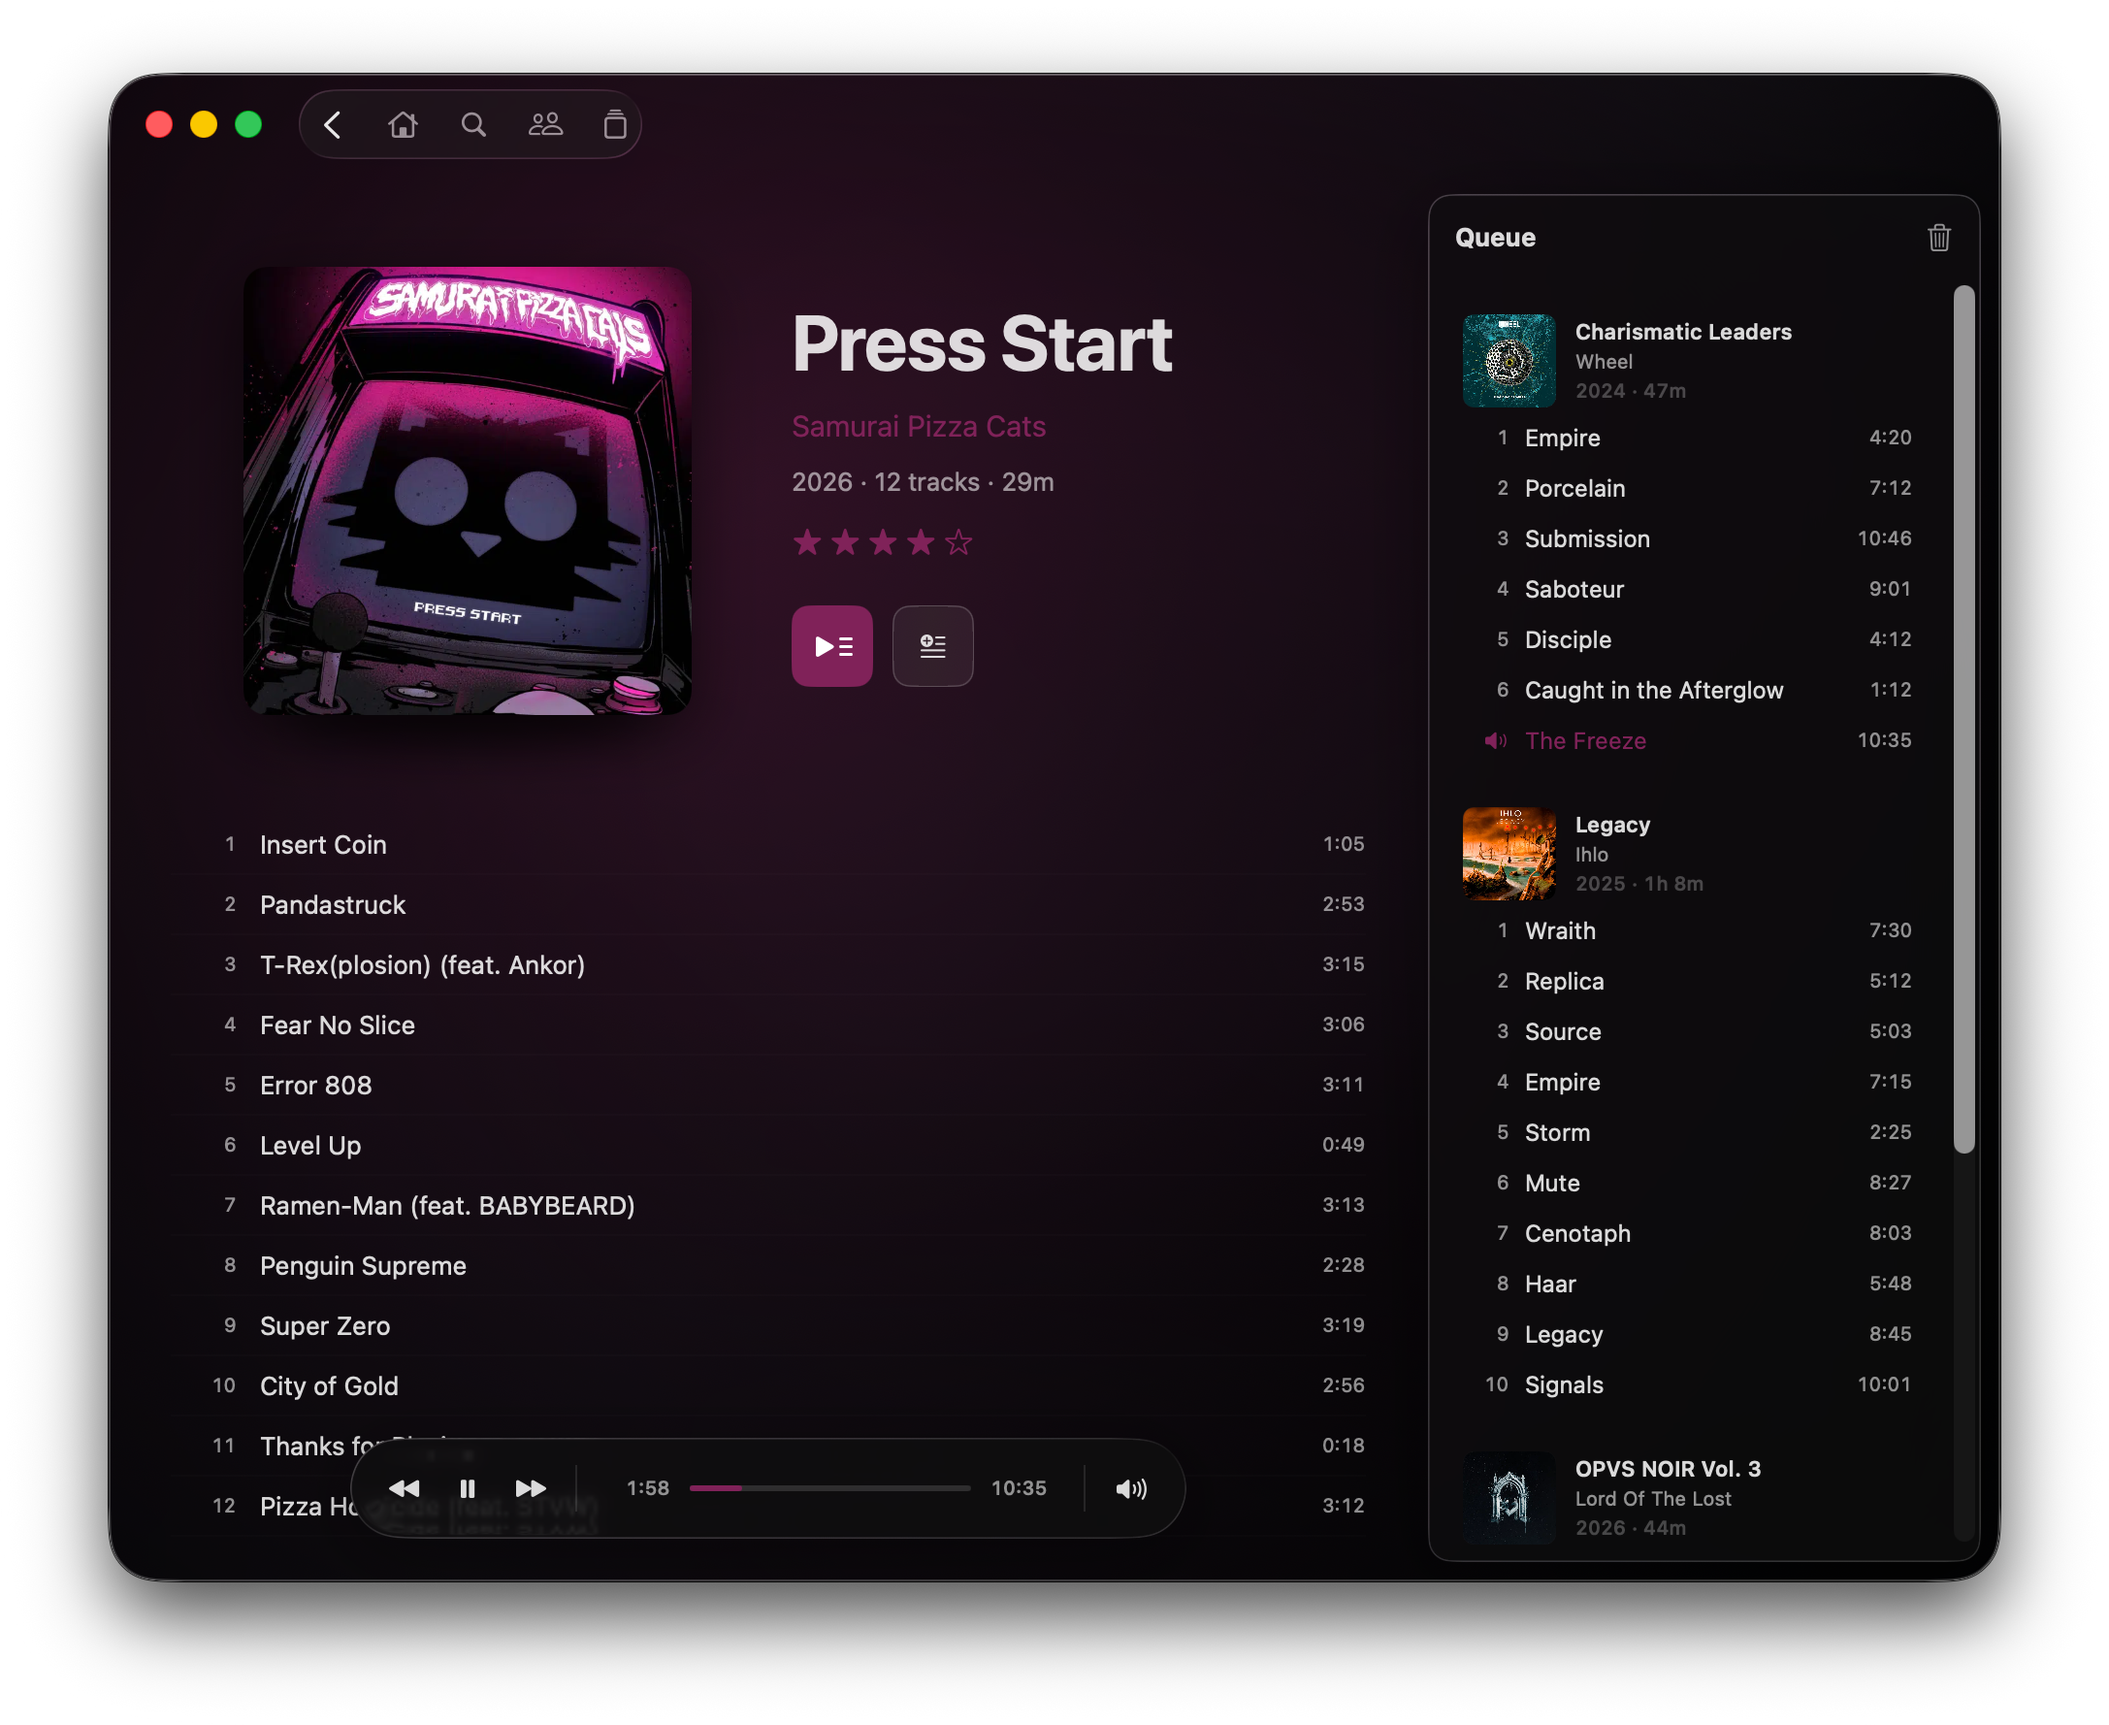
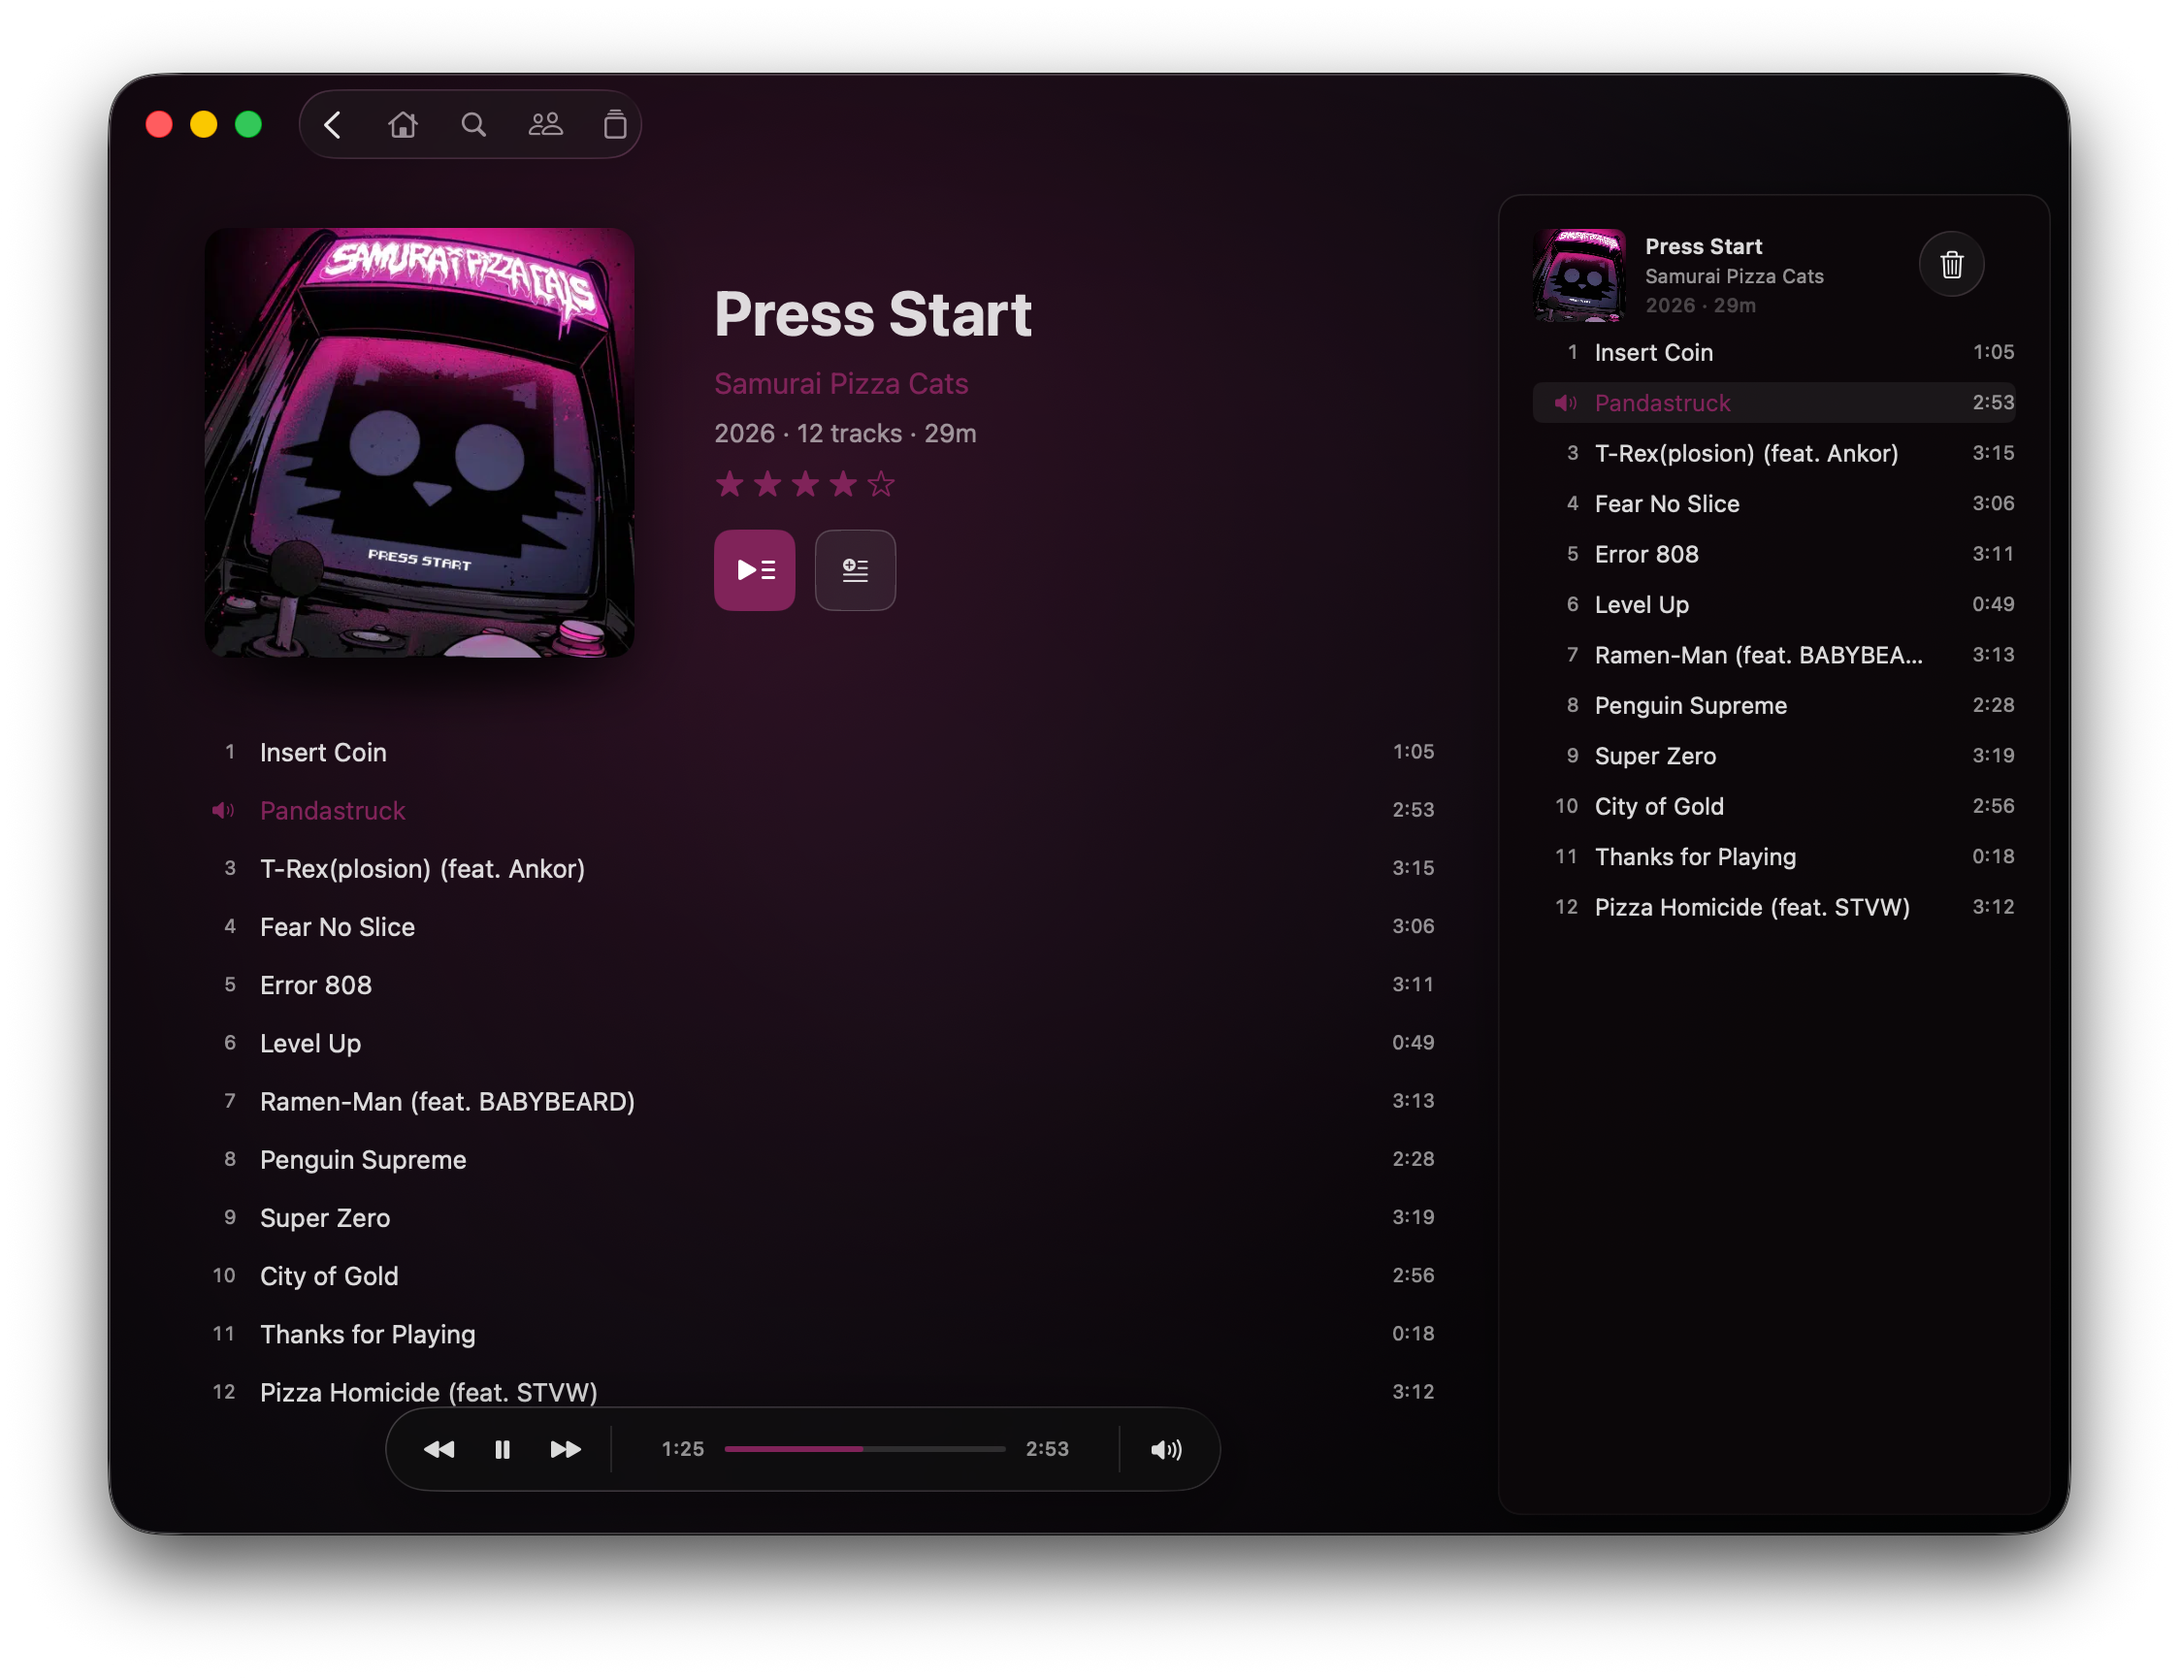
Refresh README and screenshots

diff --git a/README.md b/README.md
@@ -1,8 +1,7 @@
 # Coda — Album-First Navidrome Client for macOS
 
-Coda is a focused, album-first macOS client for Navidrome and compatible OpenSubsonic servers. It
-is built for people who want the artwork and the music to lead, while the player itself stays fast,
-predictable, and out of the way.
+Coda is a focused native macOS client for Navidrome and compatible OpenSubsonic servers. It keeps
+artwork, albums, and the listening queue at the center of the experience.
 
 Coda is an independent community project and is not affiliated with or endorsed by Navidrome.
 
@@ -11,169 +10,66 @@ Coda is an independent community project and is not affiliated with or endorsed 
   <img src="screenshots/Album.png" width="49%" alt="Coda album view">
 </p>
 
-## Why Coda exists
-
-Coda is for listeners who still think in artists, albums, discs, and track lists. It turns a
-Navidrome library into a calm, native Mac experience where the artwork gives every album its own
-identity.
-
-- **Artwork is the design.** The current album supplies the color and atmosphere; Coda adds as
-  little visual noise as possible.
-- **Albums come first.** Discographies, multidisc releases, ratings, and a real editable queue are
-  treated as essential parts of listening rather than secondary library details.
-- **Navigation stays predictable.** Home, Search, Artists, and Albums are always familiar starting
-  points, so moving through the library remains effortless.
-- **Your server stays current.** Coda reads the library directly from Navidrome, so new albums,
-  changed playlists, and ratings are available without waiting for a library synchronization.
-- **Music stays in its original format.** Coda is designed for a fast connection to the server and
-  plays the files already chosen for the library.
-
-The result is a focused music player that feels at home on macOS and makes a personal library feel
-personal.
+<p align="center">
+  <img src="screenshots/nowplaying.png" width="49%" alt="Coda Now Playing screen">
+  <img src="screenshots/search.png" width="49%" alt="Coda search results">
+</p>
 
 ## Highlights
 
-- Artwork-derived backgrounds and accent colors with native Liquid Glass controls.
-- A compact home screen for artists, recently added and recently played albums, recent releases,
-  playlists, and queue continuation.
-- Chronological artist discographies, sortable album collections, and ordered Artist → Album →
-  Song search results.
-- Album and playlist views with double-click playback, drag-and-drop queueing, and interactive
-  five-star album ratings.
-- Multidisc albums with per-disc headings, runtimes, optional disc subtitles, independent dragging,
-  and queue removal.
-- A directly editable queue: append, insert, select, delete, reorder, and jump to the playing track.
-- Native media keys, macOS Now Playing integration, seeking, volume, and mouse back-button support.
-- Gapless album playback powered by libmpv.
-- Persistent artwork caching for fast launches and immediately responsive browsing.
-- Secure login stored in the macOS Keychain.
-- Queue handoff between Coda and other compatible Navidrome clients.
-- Reliable Navidrome scrobbling while listening.
-- A native status window for connection and build details.
-
-## Made for complete albums
-
-Coda streams the original files from the server and uses libmpv to keep connected tracks flowing
-without an artificial pause. FLAC, Opus, MP3, AAC, and other common formats can live together in the
-same library.
-
-The queue is part of the listening experience rather than a temporary list hidden behind a button.
-Albums, individual tracks, and even discs can be dragged into position, rearranged, or removed
-directly.
-
-## Pick up where you left off
-
-Coda participates in Navidrome's shared saved queue. Reopen Coda and the queue from this Mac is ready
-to restore; listen somewhere else and Coda can offer that client's queue as a clear **Continue**
-card on Home.
-
-The handoff preserves track order, the current track, and the approximate playback position. A
-paused Coda monitors the server without overwriting another player's newer queue, so switching
-between clients remains intentional rather than becoming a tug-of-war.
+- Artwork-led native macOS design with album-derived colors and Liquid Glass controls.
+- Album-first browsing with chronological discographies, multidisc releases, ratings, and search.
+- A visible, editable queue with drag-and-drop insertion, reordering, removal, and queue handoff.
+- Original-format playback with gapless transitions, seeking, scrobbling, and saved queue restoration.
+- Native media keys, macOS Now Playing integration, and a dedicated immersive Now Playing view.
 
 ## Requirements
 
-- macOS 26 or newer.
-- An Apple silicon Mac.
+- macOS 26 or newer on an Apple silicon Mac.
 - A Navidrome server or compatible OpenSubsonic implementation.
-- Network access to that server.
+- Network access to that server; HTTPS is recommended outside a trusted network.
 
-Coda currently supports one server and one account at a time. HTTPS is strongly recommended whenever
-the server is reachable over an untrusted network.
+## Install
 
-## Installing a GitHub release
-
-Download the macOS arm64 ZIP from the GitHub Release, extract `Coda.app`, and move it to
+Download the macOS arm64 ZIP from the latest GitHub release, extract `Coda.app`, and move it to
 `/Applications`.
 
-The current release keeps Coda's stable development signing identity, but it is not Apple Developer
-ID signed or notarized. macOS may therefore quarantine a build downloaded from GitHub. After
-reviewing the source and moving the app into place, remove that quarantine attribute with:
+The app is not currently notarized. After reviewing the source, you can remove macOS quarantine
+from a downloaded build with:
 
 ```sh
 xattr -dr com.apple.quarantine /Applications/Coda.app
 ```
 
-This permits the downloaded build to launch; it does not make the development certificate an
-Apple-trusted Developer ID. A future fully notarized distribution would require membership in the
-Apple Developer Program.
+## Build from source
 
-## Building
-
-Prerequisites:
-
-- Xcode Command Line Tools 26 or newer, with Swift 6.2 or newer.
-- [Homebrew](https://brew.sh).
-- Meson, Ninja, pkg-config, Graphite2, FreeType, FriBidi, and HarfBuzz:
+Install Xcode Command Line Tools 26 or newer, Swift 6.2 or newer, and the build dependencies:
 
 ```sh
-brew install meson ninja pkg-config graphite2 freetype fribidi harfbuzz
+brew install meson ninja pkg-config libunibreak graphite2 freetype fribidi harfbuzz libpng
 ```
 
-Clone the repository, build the pinned LGPL playback dependencies, and create a release app:
+Then build and open the release app:
 
 ```sh
-./scripts/build-libmpv.sh
 ./scripts/build-app.sh release
 open .build/Coda.app
 ```
 
-The first command downloads checksum-pinned source archives and builds Coda's playback stack under
-`.build/libmpv`. The app bundles its required dynamic libraries and has no runtime dependency on
-Homebrew or a separately installed `mpv` executable.
-
-`build-app.sh` uses a code-signing identity named `Coda Local Development` when one is installed.
-Set `CODA_SIGNING_IDENTITY` to use another identity. If neither is available, the script creates an
-ad-hoc signed local build. Ad-hoc and locally signed builds are suitable for development, but are not
-Developer ID signed or notarized for public distribution.
-
-Run deterministic authentication, metadata, queue, playback-policy, and scrobbling checks with:
+Run the automated tests with:
 
 ```sh
 swift test
 ```
 
-Test real decoding and the preloaded transition between two server tracks with:
-
-```sh
-SDKROOT="$(xcrun --sdk macosx --show-sdk-path)" \
-  DYLD_LIBRARY_PATH=.build/libmpv/prefix/lib \
-  swift run CodaPlaybackSpike --mpv-stream-test
-```
-
-The live stream test uses the login saved by Coda. Isolated test credentials can instead be supplied
-through `CODA_SERVER_URL`, `CODA_USERNAME`, and `CODA_PASSWORD`.
-
 ## Privacy
 
-Coda contains no analytics, advertising, or tracking SDK. Credentials are stored in the user's
-macOS login Keychain and are not compiled into the app. Server communication goes only to the server
+Coda contains no analytics, advertising, or tracking SDK. It communicates only with the server
 configured by the user.
-
-## Deliberately out of scope
-
-- Podcasts and internet radio.
-- Generated mixes and recommendation algorithms.
-- Permanent offline downloads and offline-library management.
-- Connection-quality heuristics and automatic transcoding choices.
-- Multiple simultaneous servers or user profiles.
-- Light appearance and versions of macOS earlier than 26.
-
-## Vibe-coded, openly
-
-Coda was designed and implemented through an iterative, conversational workflow with OpenAI Codex.
-The product direction, design decisions, hands-on listening tests, performance measurements, and
-final judgment were human-led; a large portion of the implementation was AI-assisted. In other
-words: this project was vibe-coded, deliberately and transparently.
-
-That origin is not a substitute for review. Bug reports, code review, testing on different servers
-and Macs, and focused contributions are welcome.
 
 ## License
 
 Copyright 2026 iamtoolino.
 
-Coda's source code is licensed under the [Apache License, Version 2.0](LICENSE). Bundled playback
-libraries retain their respective licenses. The built app includes their license texts and a
-`BundledLibraries.txt` manifest recording the resolved versions, linkage, upstream sources, and
-relinking instructions under `Contents/Resources/Licenses`.
+Coda's source code is licensed under the [Apache License, Version 2.0](LICENSE). Bundled libraries
+retain their respective licenses; their notices are included in the built app.
